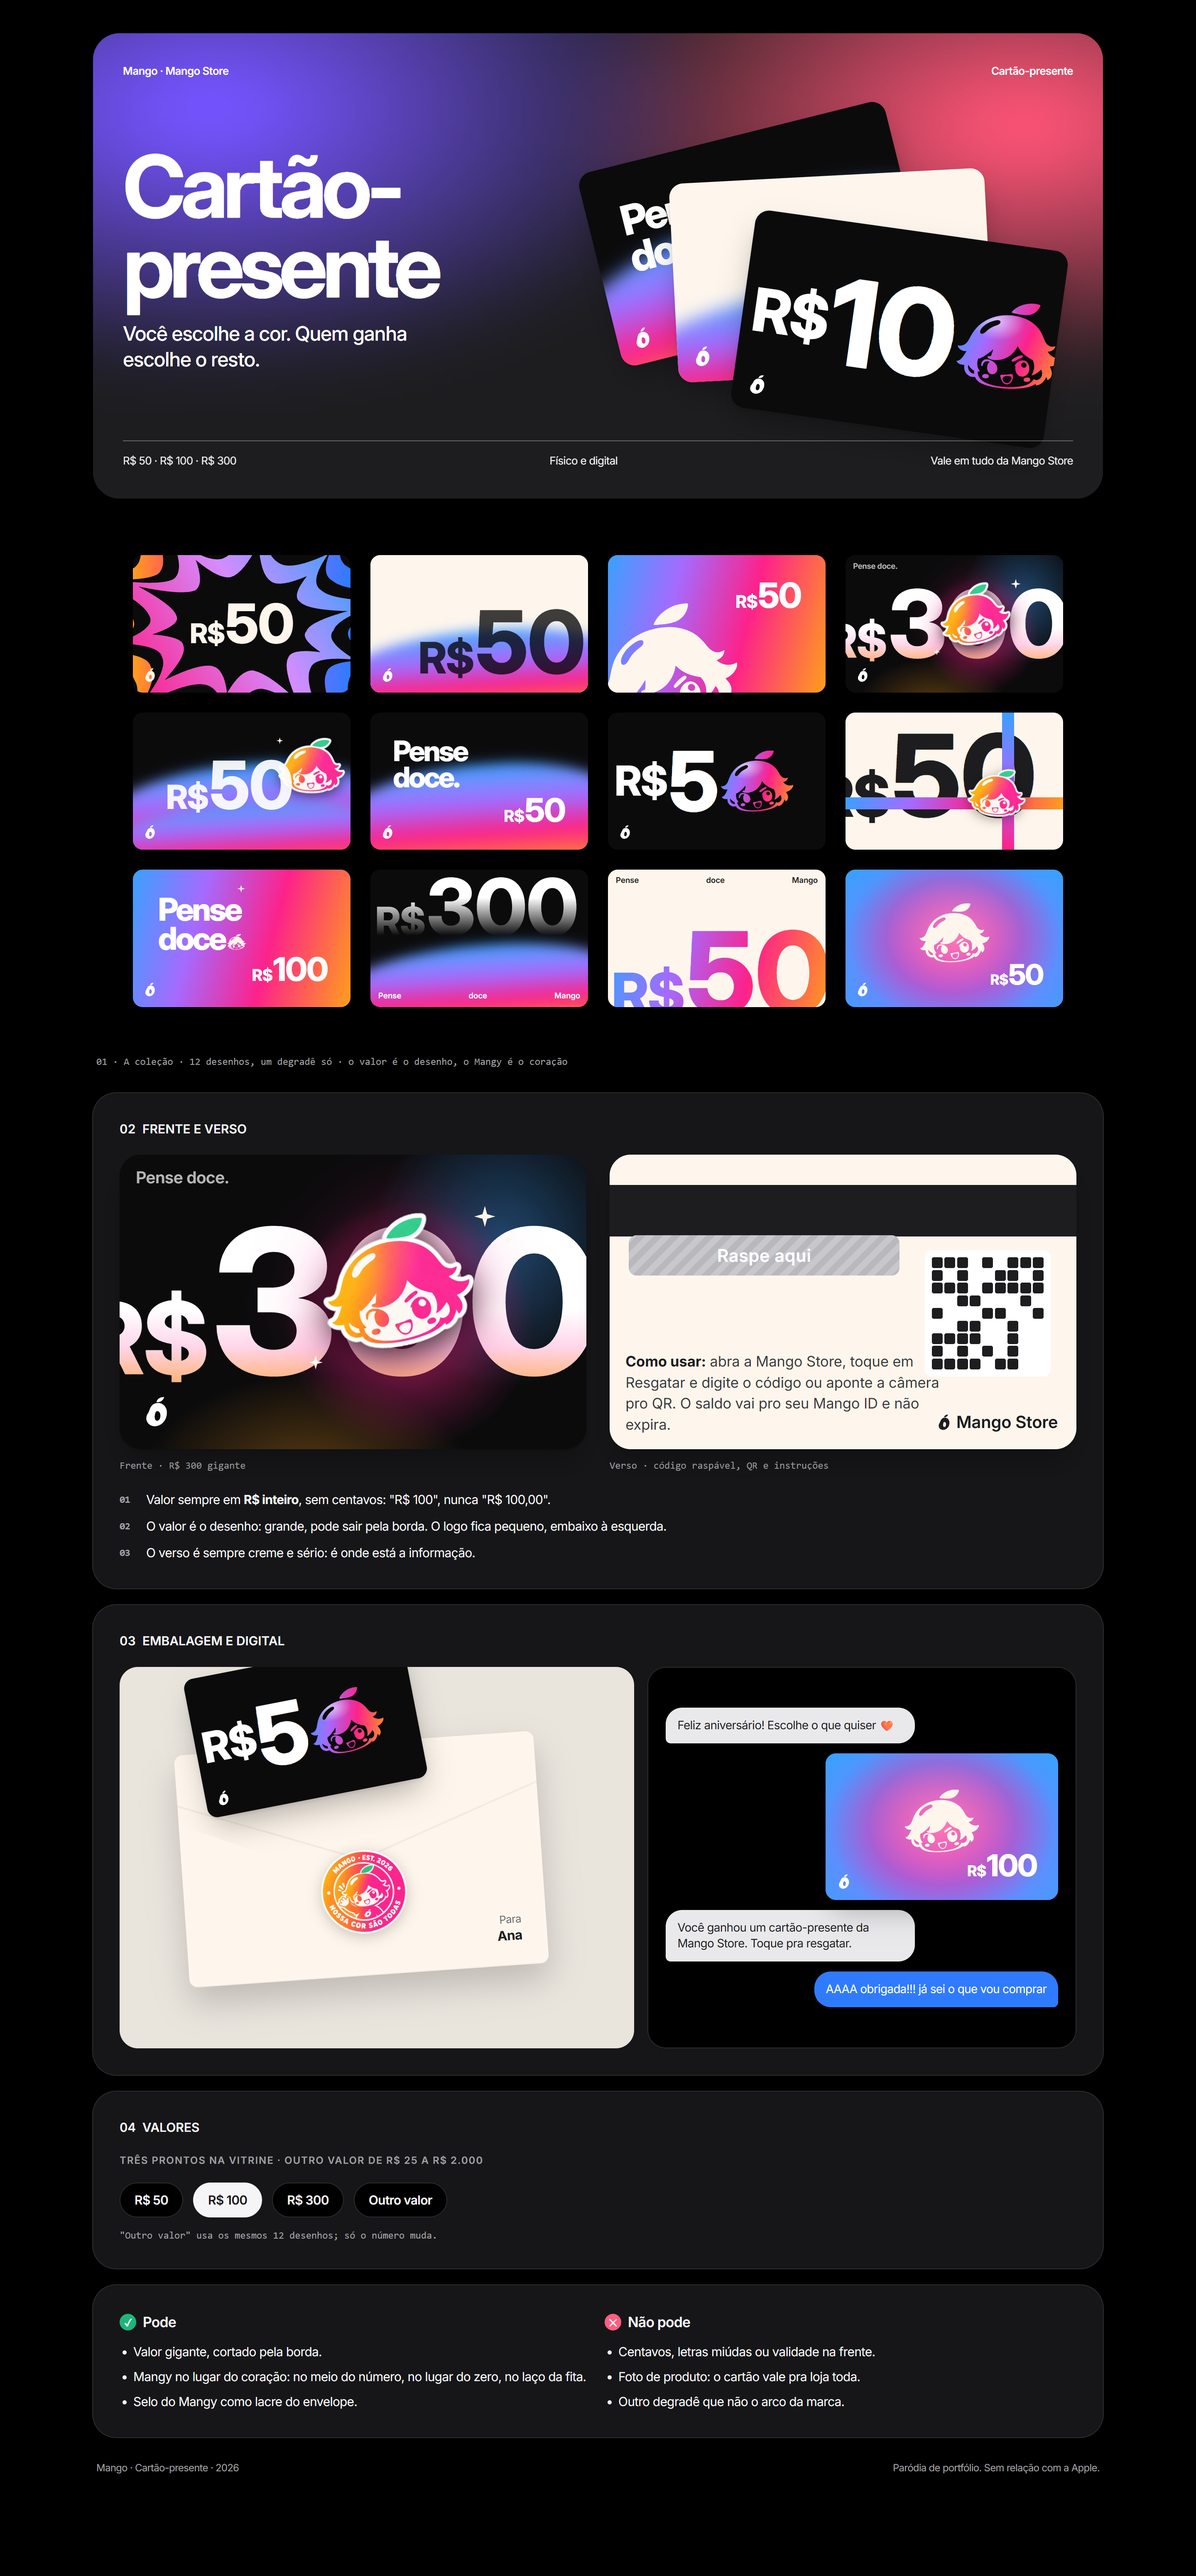
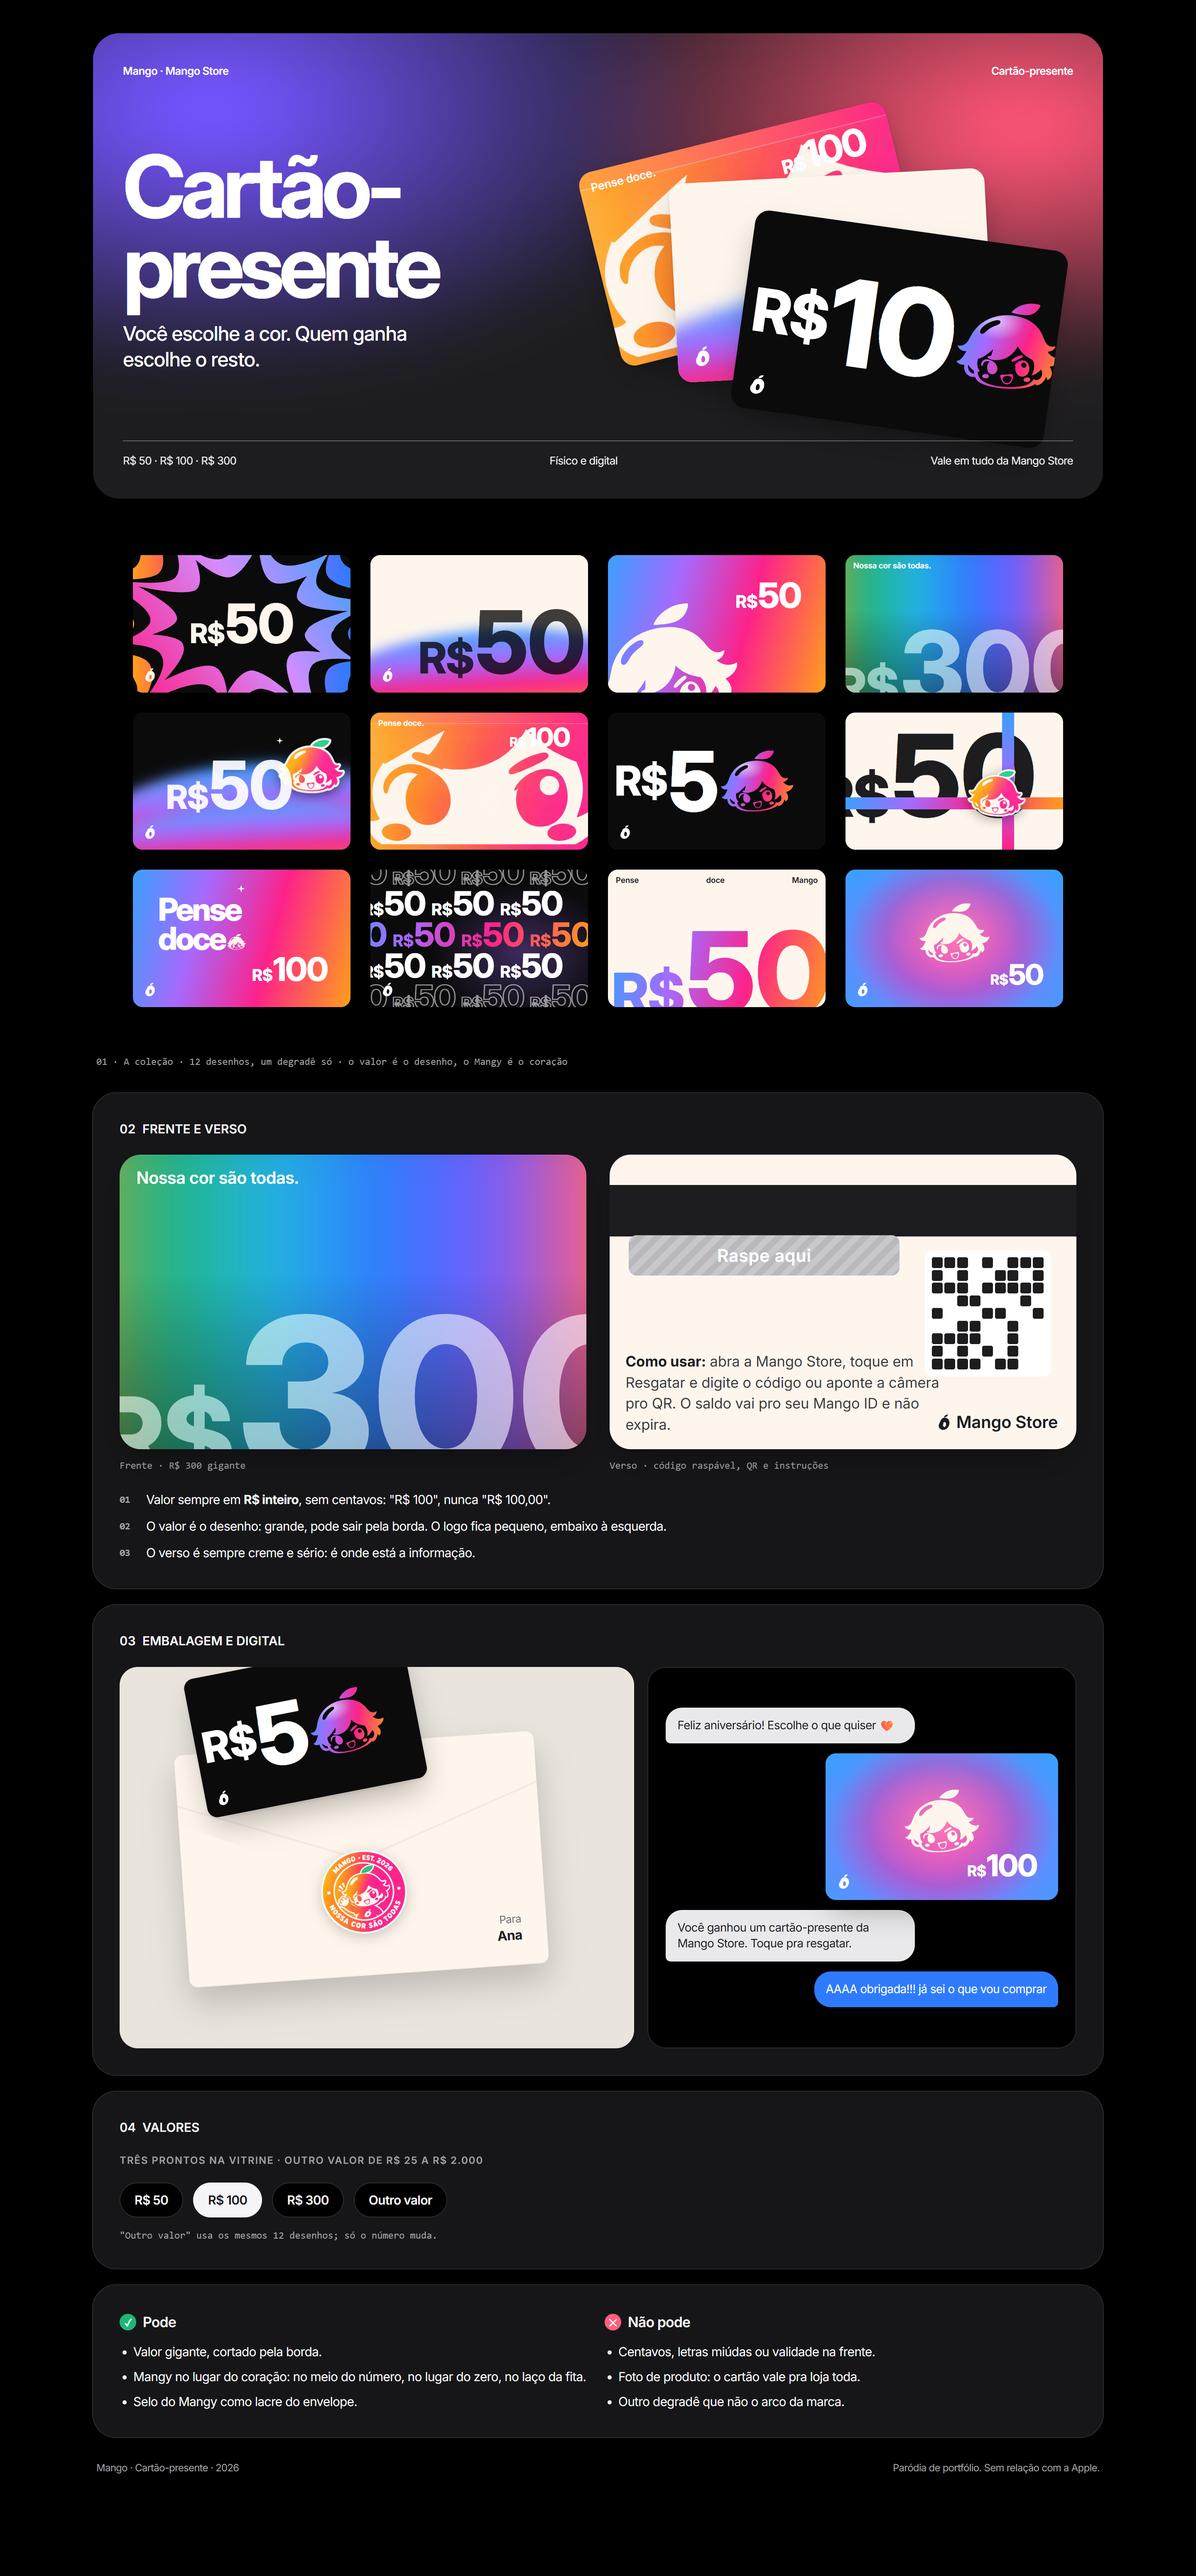
feat(marca): 3 cartões novos pra quebrar repetição — seis cores, só os olhos, parede de valor

diff --git a/escolhas/marca/cartoes.html b/escolhas/marca/cartoes.html
@@ -249,31 +249,27 @@ const DESENHOS = [
   ['creme', v => `<span class="onda baixa"></span><span class="v" style="left:.55em;top:.6em;font-size:8em;color:rgba(29,29,31,.85);mix-blend-mode:multiply">${RS(v)}</span><span class="marquinha" style="color:#fff"></span>`],
   // 3 cabeça gigante saindo pelo canto
   ['cheio', v => `${head('creme', 'left:-1.2em;bottom:-3.2em;width:13em;transform:rotate(-10deg);background:#fef6ec')}<span class="v" style="right:.7em;top:.75em;font-size:3.2em">${RS(v)}</span>`],
-  // 4 valor gigante no preto, Mangy no meio dos números
-  ['', v => `<span style="inset:0;background:radial-gradient(38% 60% at 62% 58%,#fd228a88,transparent 70%),radial-gradient(40% 70% at 82% 30%,#3aa0ff66,transparent 70%),radial-gradient(50% 50% at 40% 110%,#ff9f1c55,transparent 70%)"></span>`
-    + `<span class="v luz-baixo" style="left:-.2em;top:50%;transform:translateY(-50%);font-size:8.6em">${RS(v)}</span>`
-    + `${stk('left:8.6em;top:2.6em;width:6.6em;transform:rotate(-8deg);filter:drop-shadow(0 .35em .7em #000c) drop-shadow(0 0 1.4em #fd228a88)')}`
-    + `<span class="brilho" style="left:15.2em;top:2.2em"></span><span class="brilho" style="left:16.4em;top:3.4em;width:.5em"></span><span class="brilho" style="left:8.1em;top:8.6em;width:.6em"></span>`
-    + `<span class="espaco" style="right:auto;font-size:.7em;opacity:.7"><span>Pense doce.</span></span><span class="marquinha"></span>`],
+  // 4 nossa cor são todas: as seis cores como luz, valor translúcido gigante
+  ['', v => `<span style="inset:-20%;background:linear-gradient(90deg,#ff9f1c,#1fb57a 20%,#22b5e8 38%,#2f7bff 55%,#7b5cff 72%,#ff5e7e 88%,#ff9f1c);filter:blur(1.4em)"></span><span style="inset:0;background:linear-gradient(180deg,#0b0b0c00 40%,#0b0b0c66)"></span><span class="espaco" style="right:auto;color:#fff"><span>Nossa cor são todas.</span></span><span class="v" style="left:-.12em;bottom:-.16em;font-size:9.4em;color:rgba(255,255,255,.78);mix-blend-mode:soft-light">${RS(v)}</span><span class="v" style="left:-.12em;bottom:-.16em;font-size:9.4em;color:rgba(255,255,255,.42)">${RS(v)}</span>`],
   // 5 número claro afundando na onda
   ['', v => `<span class="onda"></span>${stk('left:13.4em;top:2.2em;width:6.2em;transform:rotate(6deg);filter:drop-shadow(0 .3em .6em #0009)')}<span class="onda" style="top:66%;opacity:.95"></span><span class="v" style="left:.5em;top:.7em;font-size:6.1em;color:rgba(255,255,255,.92)">${RS(v)}</span><span class="brilho" style="left:13.2em;top:2.3em;width:.6em"></span><span class="marquinha"></span>`],
-  // 6 slogan + onda
-  ['', v => `<span class="onda"></span><span class="frase" style="left:.8em;top:.9em;font-size:2.6em">Pense<br>doce.</span><span class="v" style="right:.7em;bottom:.8em;font-size:3em">${RS(v)}</span><span class="marquinha"></span>`],
+  // 6 só os olhos: zoom no rosto do Mangy, em creme, sobre o degradê
+  ['', v => `<span style="inset:0;background:linear-gradient(95deg,#ffa53a,#fd228a)"></span><img src="mascote/eyes-1.webp" alt="" style="left:-10%;top:.9em;width:120%;height:auto"><span class="v" style="right:.7em;top:.55em;font-size:2.4em">${RS(v)}</span><span class="espaco" style="right:auto;color:#fff"><span>Pense doce.</span></span>`],
   // 7 o Mangy é o zero
   ['', v => `<span class="v" style="left:.08em;top:50%;transform:translateY(-50%);font-size:7.6em;display:flex;align-items:center">${RS(String(v).slice(0, -1))}<span class="cabeca" style="position:static;height:.74em;margin-left:.03em"></span></span><span class="marquinha"></span>`],
   // 8 presente: fita cruzada, Mangy no laço
   ['creme', v => `<span class="v" style="left:-.25em;top:.15em;font-size:10.5em">${RS(v)}</span><span class="fita-h"></span><span class="fita-v"></span>${stk('left:11.3em;top:5em;width:5.4em;transform:rotate(10deg)')}`],
   // 9 slogan no degradê cheio
   ['cheio', v => `<span class="frase" style="left:.8em;top:.8em;font-size:2.9em">Pense<br>doce<span class="cabeca" style="display:inline-block;position:static;background:#fef6ec;height:.5em;margin-left:.06em;vertical-align:baseline"></span></span><span class="brilho" style="left:9.6em;top:1.4em;width:.7em"></span><span class="v" style="right:.7em;bottom:.75em;font-size:3em">${RS(v)}</span><span class="marquinha"></span>`],
-  // 10 número que some na onda + slogan espaçado
-  ['', v => `<span class="onda baixa"></span><span class="v" style="left:.06em;top:.08em;font-size:7.2em;background:linear-gradient(180deg,#fff 35%,#fff0 95%);-webkit-background-clip:text;background-clip:text;color:transparent">${RS(v)}</span><span class="espaco" style="top:auto;bottom:.9em"><span>Pense</span><span>doce</span><span>Mango</span></span>`],
+  // 10 parede de valor: o número repetido em linhas, contorno e cheio
+  ['', v => `<span style="inset:0;background:radial-gradient(60% 70% at 70% 60%,#a46bff55,transparent 70%)"></span><span style="left:-1.4em;top:-.35em;display:grid;gap:.08em;font-size:3.05em;line-height:.86">${[0, 1, 2, 3, 4].map(k => `<span class="v" style="position:static;${k === 2 ? 'background:var(--arco);-webkit-background-clip:text;background-clip:text;color:transparent' : k % 2 ? 'color:#fff' : 'color:transparent;-webkit-text-stroke:.025em #ffffff99'};margin-left:${k % 2 ? -.9 : 0}em">${Array(4).fill(RS(v)).join(' ')}</span>`).join('')}</span><span class="marquinha" style="color:#fff"></span>`],
   // 11 creme, slogan espaçado no topo, número em degradê saindo por baixo
   ['creme', v => `<span class="espaco"><span>Pense</span><span>doce</span><span>Mango</span></span><span class="v preenche" style="left:.03em;bottom:-.1em;font-size:10.5em">${RS(v)}</span>`],
   // 12 aura com a cabeça brilhando
   ['', v => `<span class="aura"></span>${head('creme', 'left:50%;top:46%;width:6.4em;transform:translate(-50%,-50%);background:#fef6ec;filter:drop-shadow(0 0 .8em #fff8)')}<span class="v" style="right:.7em;bottom:.75em;font-size:2.6em">${RS(v)}</span><span class="marquinha"></span>`],
 ];
 // valores como na referência: quase todos 50, alguns 300 e 100
-const VAL = [50, 50, 50, 300, 50, 50, 50, 50, 100, 300, 50, 50];
+const VAL = [50, 50, 50, 300, 50, 100, 50, 50, 100, 50, 50, 50];
 const cartao = (i, v = VAL[i], w) => {
   const [cls, miolo] = DESENHOS[i];
   return `<div class="cartao ${cls}" style="${w ? `--w:${w}` : ''}" role="img" aria-label="Cartão-presente Mango Store de R$ ${v}"><div class="in">${miolo(v)}</div></div>`;
